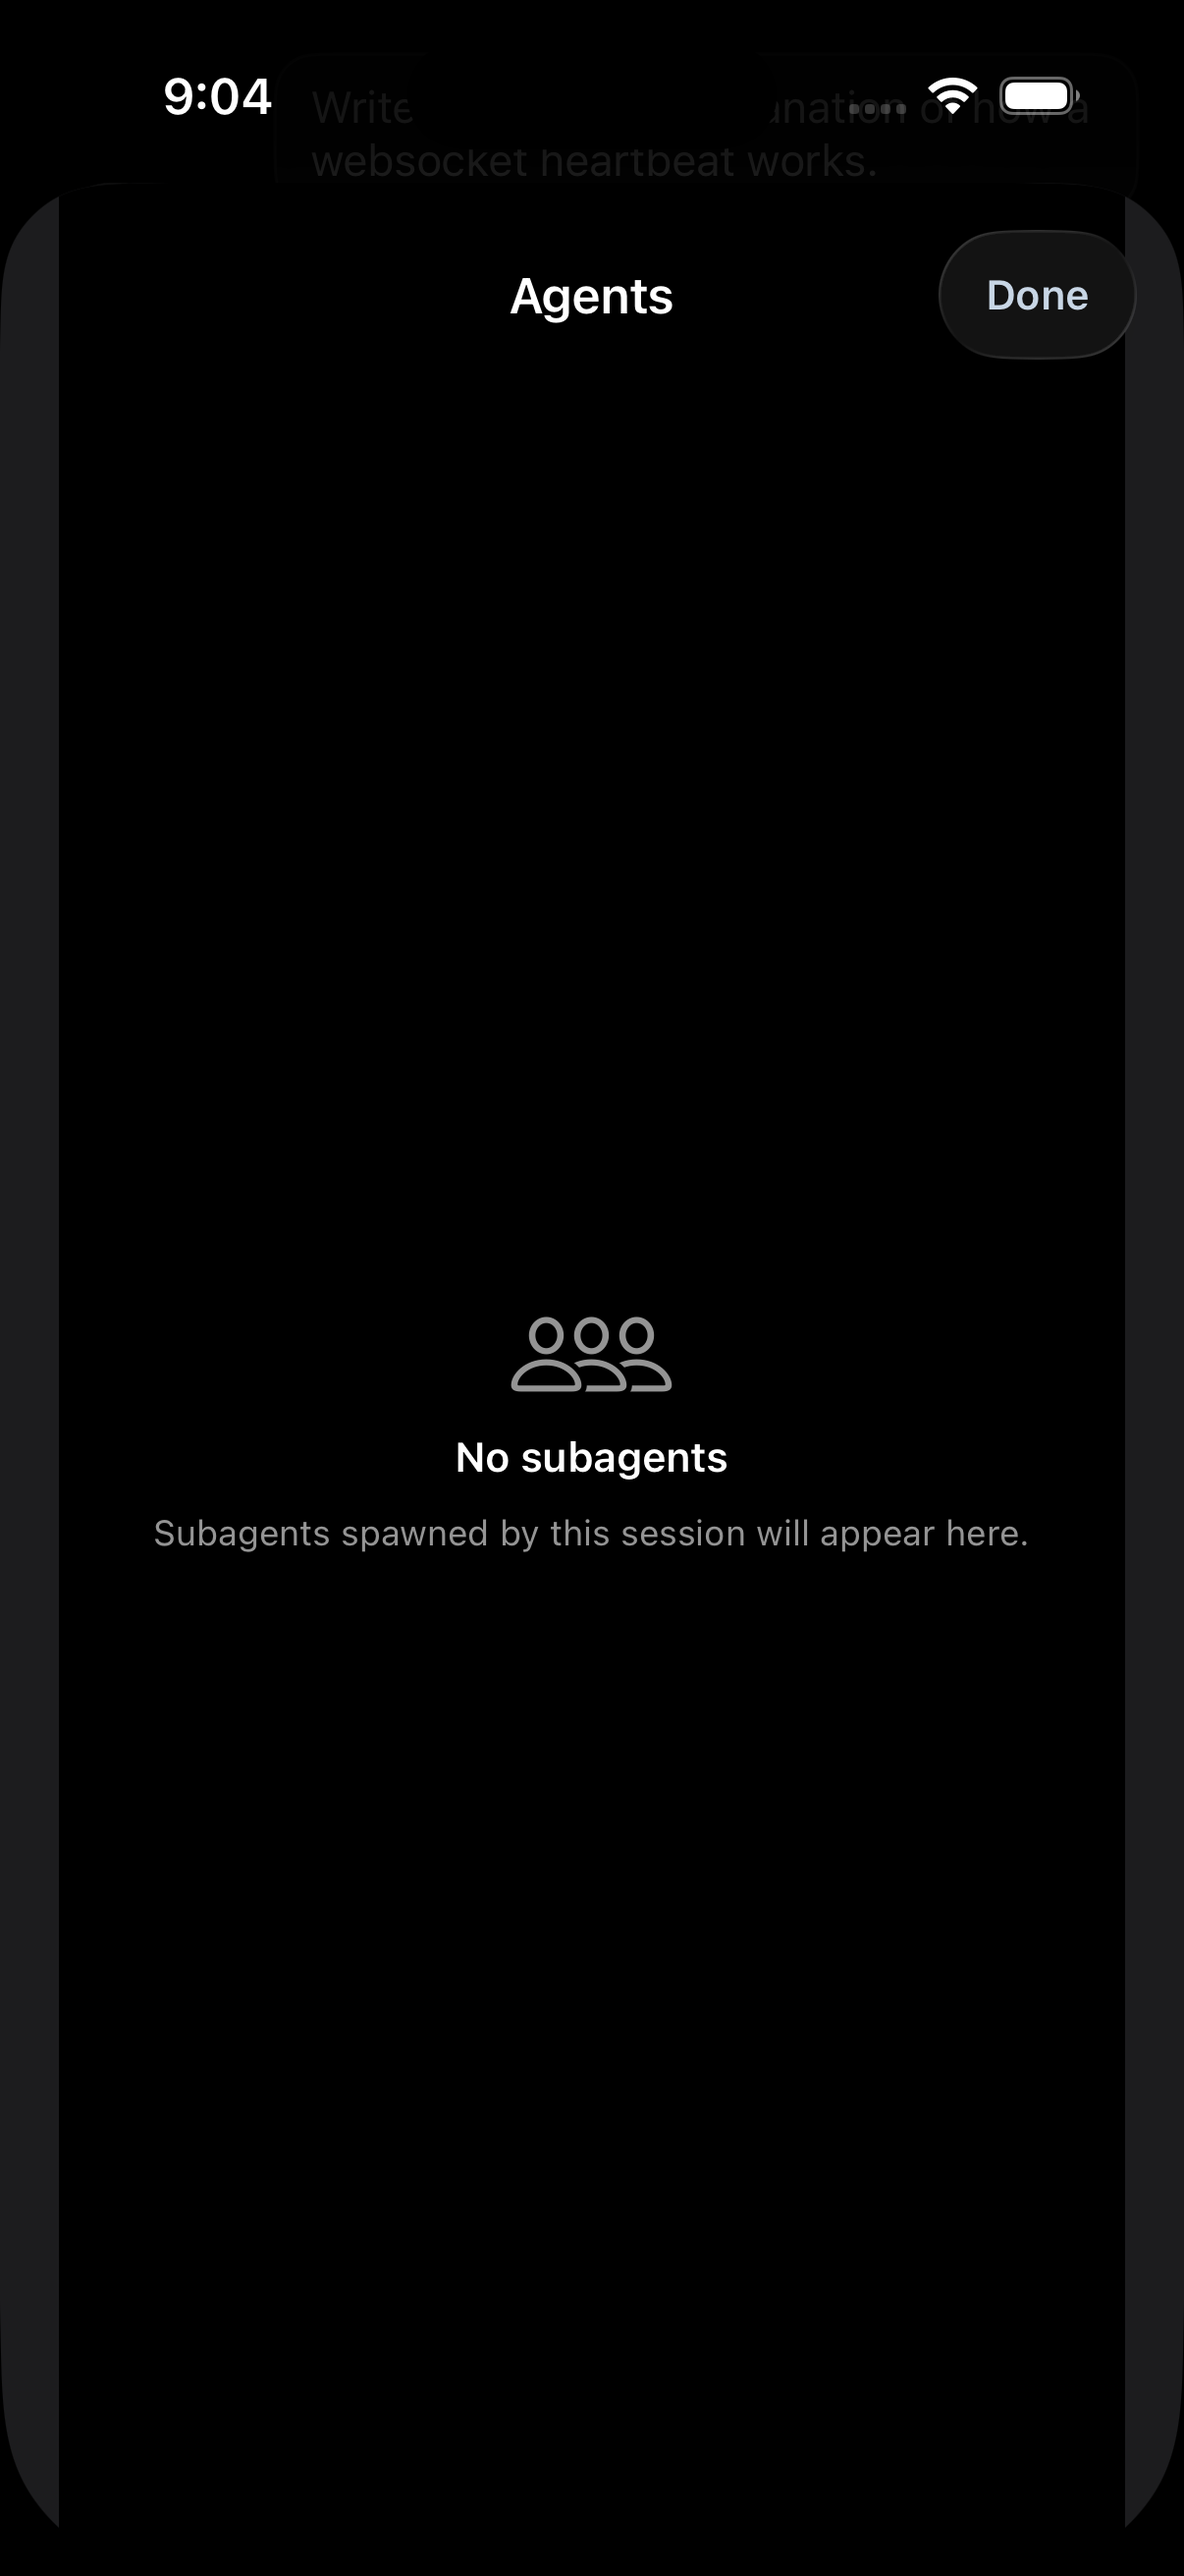
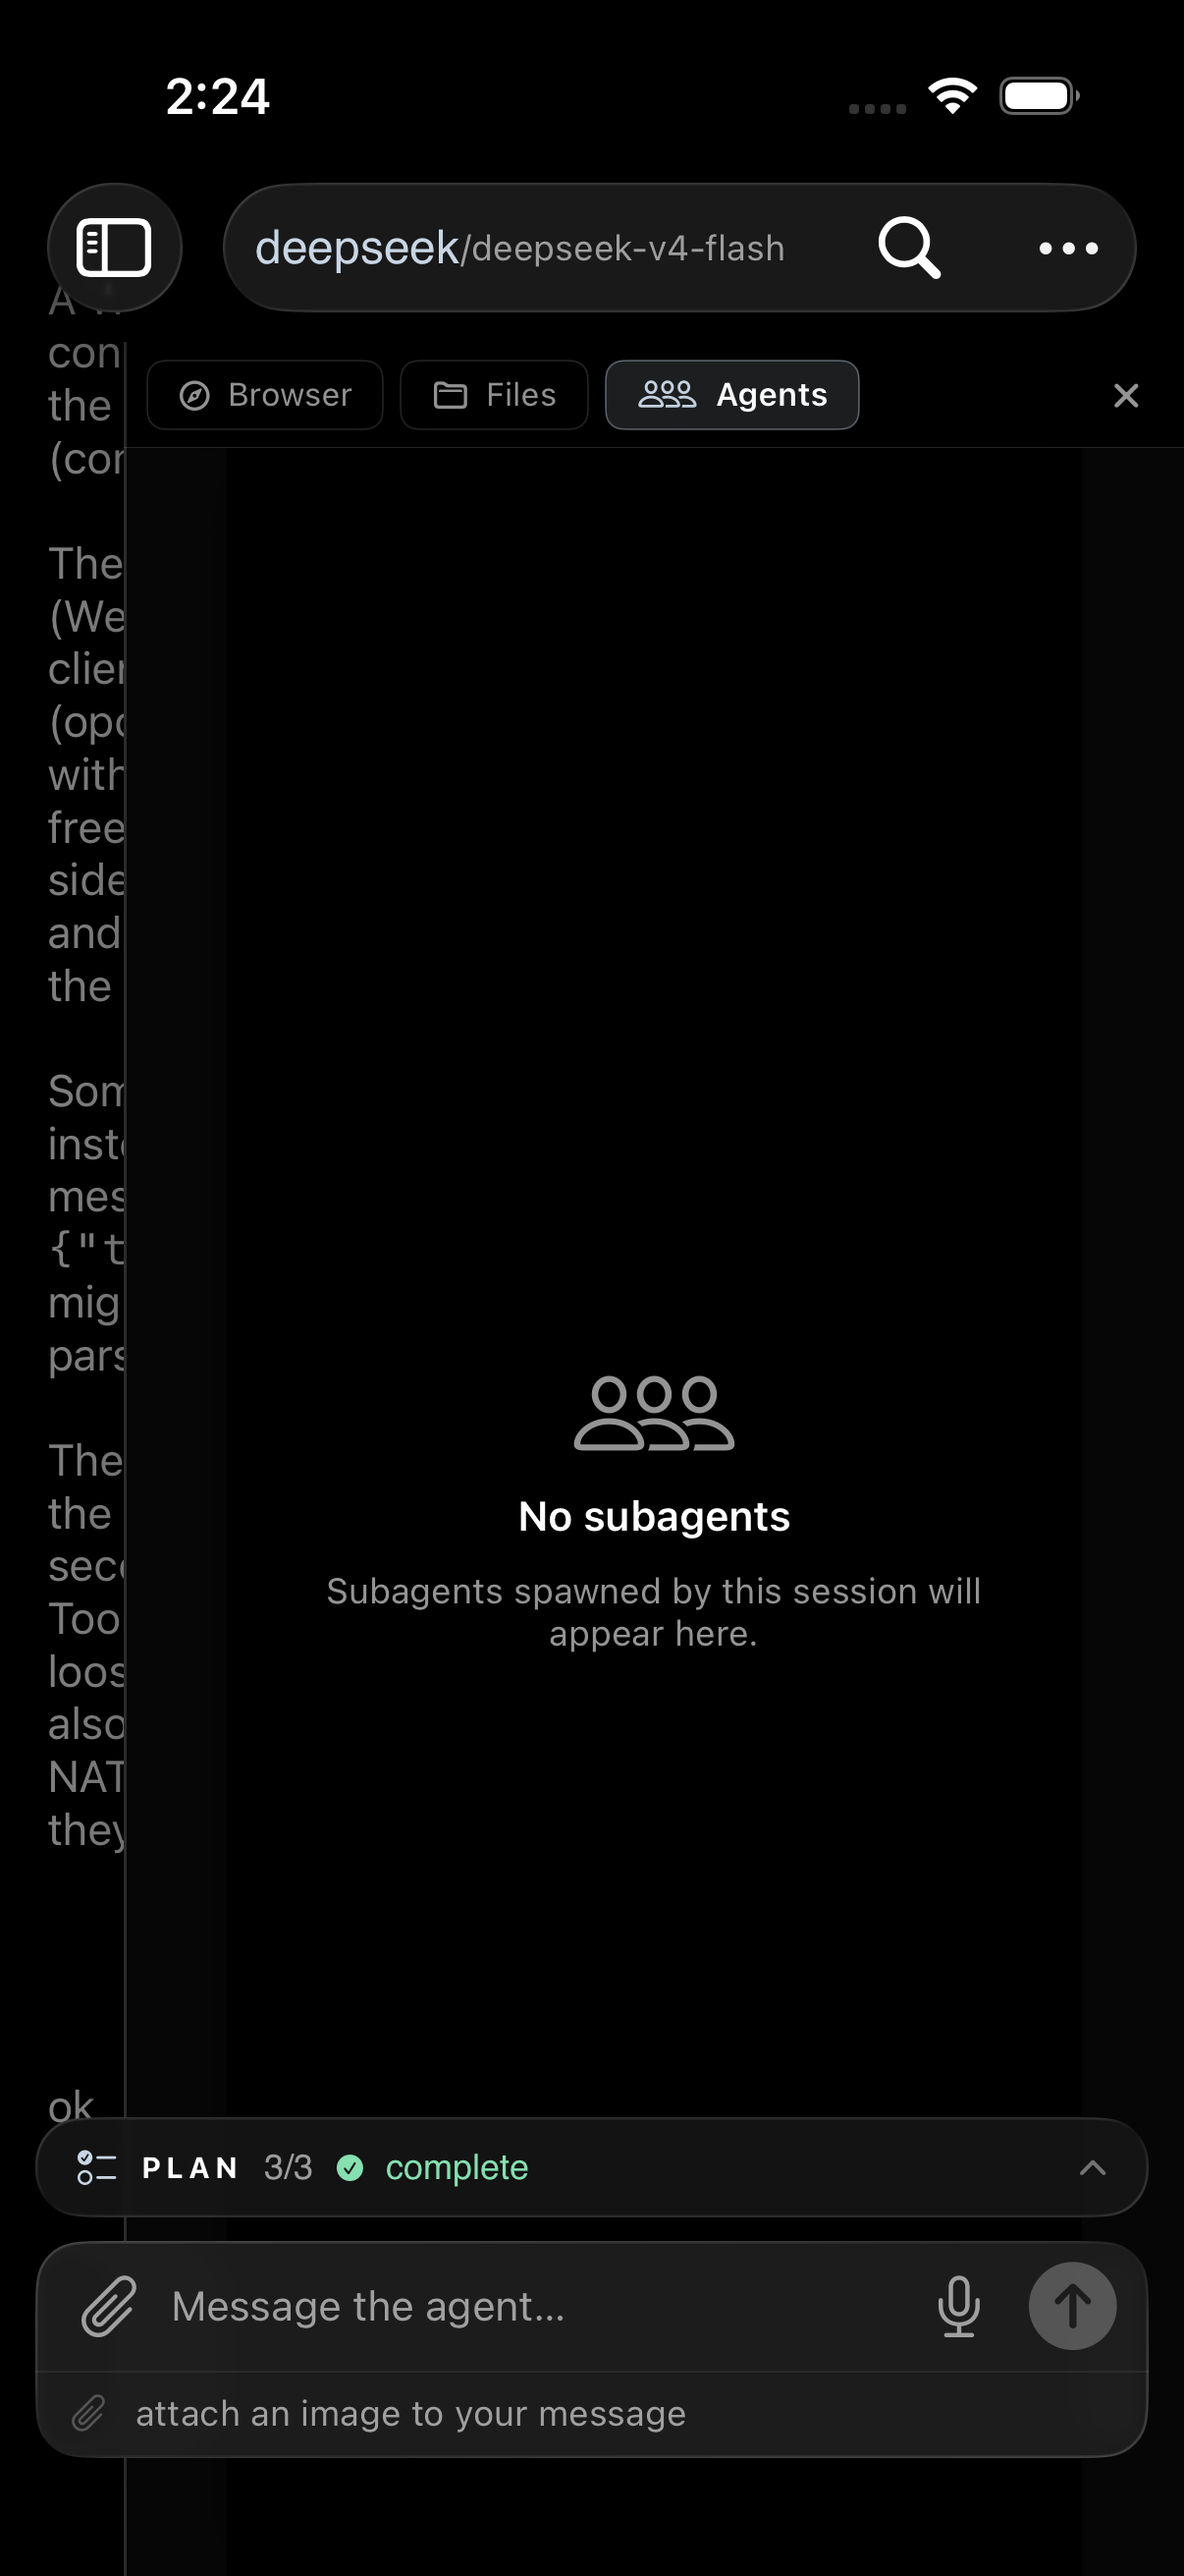
showcase: replace old popover-era slides with new-layout captures + floating panel size fix
macOS slides: browser→region-hero (right dock + terminal), settings→full
sections, +searchdiff dock slide. iOS slides: browser→right slide-over,
files/agents/review/searchdiff re-shot as slide-overs. Floating NSPanel no
longer contracts to SwiftUI fitting size.

Changed region(s): [[0.0, 0.0618, 0.9511, 0.9886], [0.1534, 0.0309, 1.0, 0.1854], [0.1534, 0.1236, 0.1841, 0.1545]]

diff --git a/showcase/index.html b/showcase/index.html
@@ -306,7 +306,7 @@ all speaking the same <code>omp-app/1</code> wire to your <code>t4-host</code>, 
 		<figure class="car-slide"><img src="../screenshots/feature-07-files.png" alt="files"><figcaption><b>Files</b> — the session workspace, browsable.</figcaption></figure>
 		<figure class="car-slide"><img src="../screenshots/feature-08-agents.png" alt="agents"><figcaption><b>Agents</b> — subagents spawned by the session.</figcaption></figure>
 		<figure class="car-slide"><img src="../screenshots/feature-09-terminal.png" alt="terminal"><figcaption><b>Terminal</b> — host PTY drawer, four tabs, mouse reporting.</figcaption></figure>
-		<figure class="car-slide"><img src="../screenshots/feature-10-browser.png" alt="browser"><figcaption><b>Browser + design mode</b> — live pages, element annotation.</figcaption></figure>
+		<figure class="car-slide"><img src="../screenshots/region-ios.png" alt="browser right slide-over"><figcaption><b>Browser + design mode</b> — right slide-over, live pages, element annotation.</figcaption></figure>
 		<figure class="car-slide"><img src="../screenshots/parity-files.png" alt="files gallery"><figcaption><b>Files gallery</b> — real image thumbnails, full-screen preview.</figcaption></figure>
 		<figure class="car-slide"><img src="../screenshots/feature-11-usage.png" alt="usage"><figcaption><b>Usage</b> — token and cost accounting when the host has it.</figcaption></figure>
 		<figure class="car-slide"><img src="../screenshots/feature-12-review.png" alt="review"><figcaption><b>Review</b> — turn diffs when the session produces them.</figcaption></figure>
@@ -326,11 +326,12 @@ all speaking the same <code>omp-app/1</code> wire to your <code>t4-host</code>, 
 		<figure class="car-slide"><img src="../screenshots/mac-02-files.png" alt="files"><figcaption><b>Files</b> — workspace browser.</figcaption></figure>
 		<figure class="car-slide"><img src="../screenshots/mac-03-agents.png" alt="agents"><figcaption><b>Agents</b> — subagent roster.</figcaption></figure>
 		<figure class="car-slide"><img src="../screenshots/mac-04-terminal.png" alt="terminal"><figcaption><b>Terminal</b> — host PTY, docked, live.</figcaption></figure>
-		<figure class="car-slide"><img src="../screenshots/mac-05-browser.png" alt="browser"><figcaption><b>Browser</b> — live page via the host preview pipeline.</figcaption></figure>
+		<figure class="car-slide"><img src="../screenshots/region-hero.png" alt="browser right dock"><figcaption><b>Browser</b> — right dock, live and concurrent with the terminal.</figcaption></figure>
+		<figure class="car-slide"><img src="../screenshots/mac-10-searchdiff.png" alt="search and diff"><figcaption><b>Search & diff</b> — right dock, find any file in the workspace.</figcaption></figure>
 		<figure class="car-slide"><img src="../screenshots/mac-06-plan.png" alt="plan"><figcaption><b>Plan panel</b> — phase tracking inline.</figcaption></figure>
 		<figure class="car-slide"><img src="../screenshots/mac-07-ask.png" alt="ask"><figcaption><b>Plan review</b> — approvals with real shortcuts.</figcaption></figure>
 		<figure class="car-slide"><img src="../screenshots/mac-08-usage.png" alt="usage"><figcaption><b>Usage</b> — token and cost pane.</figcaption></figure>
-		<figure class="car-slide"><img src="../screenshots/mac-09-settings.png" alt="settings"><figcaption><b>Settings</b> — host and connection.</figcaption></figure>
+		<figure class="car-slide"><img src="../screenshots/settings-full.png" alt="settings"><figcaption><b>Settings</b> — models per role, behavior, keys, connection, theme.</figcaption></figure>
 		<figure class="car-slide"><img src="../screenshots/mac-10-inbox.png" alt="inbox"><figcaption><b>Inbox</b> — attention queue.</figcaption></figure>
 	</div>
 	<button class="car-btn next" aria-label="next"></button>
